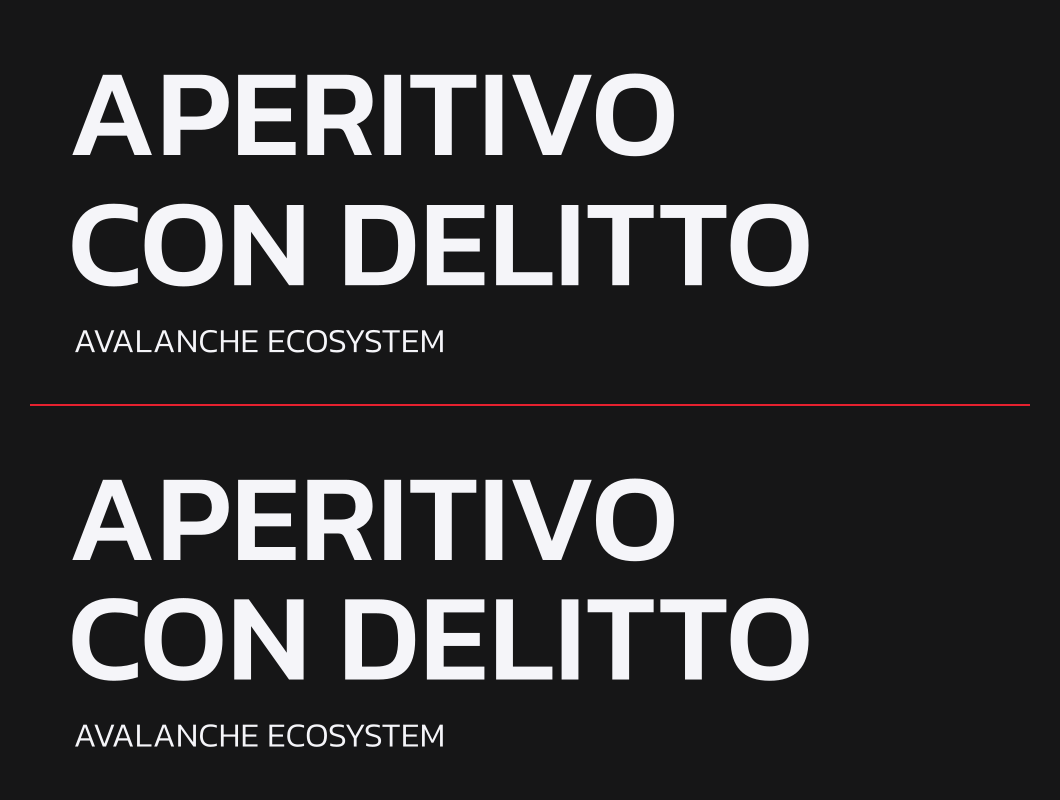
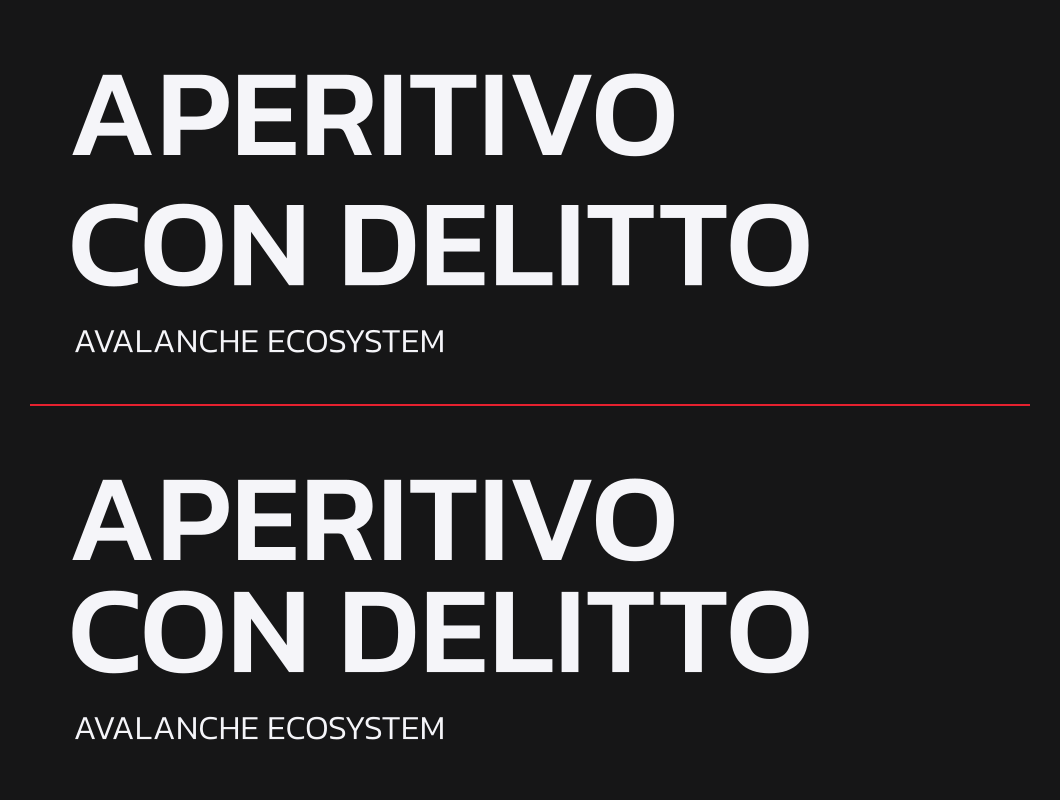
Refine event headline leading to 0.90

Changed region(s): [[0.0623, 0.7188, 0.5604, 0.9375], [0.5292, 0.7188, 0.7783, 0.7812], [0.6849, 0.8125, 0.7783, 0.875]]

diff --git a/team1-design-system/references/social-and-content.md b/team1-design-system/references/social-and-content.md
@@ -15,9 +15,9 @@ Common planning sizes include 1080 × 1350 portrait, 1080 × 1080 square, and 10
 
 ## Event headline leading — derived recommendation
 
-For short, stacked Kanit Medium headlines on event covers and social graphics, start at **0.96 line height**, using `profiles.eventDisplay.headlineLineHeight` in the canonical tokens. In SVG or other manually positioned layouts, set consecutive baselines to `font size × 0.96` apart; this is not the visible gap between letter shapes.
+For short, stacked Kanit Medium headlines on event covers and social graphics, start at **0.90 line height**, using `profiles.eventDisplay.headlineLineHeight` in the canonical tokens. In SVG or other manually positioned layouts, set consecutive baselines to `font size × 0.90` apart; this is not the visible gap between letter shapes.
 
-This recommendation follows requester feedback on 21 September 2026 to slightly tighten an event cover's headline. The revised square cover uses 126.72 px baseline spacing at 132 px type (previously 138 px); its story companion uses 98.88 px at 103 px type (previously 108 px).
+This recommendation follows requester feedback on 21 September 2026 to slightly tighten an event cover's headline. The revised square cover uses 118.8 px baseline spacing at 132 px type (previously 138 px); its story companion uses 92.7 px at 103 px type (previously 108 px).
 
 Keep supporting copy visually separate. Move its position with the shortened title block when needed, preserving the existing title-to-subtitle gap. Inspect accents, ascenders, descenders and thumbnail readability; increase leading if glyphs collide. This is scoped display guidance, not a change to body-copy spacing, global font roles, or inherited presentation layouts.
 

diff --git a/team1-design-system/tokens/README.md b/team1-design-system/tokens/README.md
@@ -10,6 +10,6 @@ Use `global` for new work. Values under `profiles` are controlled exceptions and
 
 The `retired` map exists for migration and linting. Never treat its values as a usable palette. Status error is `#dc2626`; do not use brand red `#E6212F` as an error color.
 
-`profiles.eventDisplay.headlineLineHeight` is a derived 0.96 starting point for short stacked Kanit Medium event headlines. Multiply font size by this value for manual baseline placement. It is deliberately excluded from the global CSS foundations; it does not govern body copy or inherited presentation layouts. See the [social guidance](../references/social-and-content.md#event-headline-leading--derived-recommendation) for scope and optical checks.
+`profiles.eventDisplay.headlineLineHeight` is a derived 0.90 starting point for short stacked Kanit Medium event headlines. Multiply font size by this value for manual baseline placement. It is deliberately excluded from the global CSS foundations; it does not govern body copy or inherited presentation layouts. See the [social guidance](../references/social-and-content.md#event-headline-leading--derived-recommendation) for scope and optical checks.
 
 No font files are included. Verify font licenses, installed weights, target-language glyph coverage, fallback behavior, contrast, zoom, and reduced-motion behavior in the final medium.

diff --git a/docs/qa/README.md b/docs/qa/README.md
@@ -2,7 +2,7 @@
 
 `event-headline-leading-before-after.png` compares the actual square-cover title treatment at the same scale: before above the red divider, revised below it. It contains only rendered Kanit text and a comparison divider; no font programs, event photograph or third-party logo is embedded.
 
-Requester feedback on 21 September 2026 asked for a slight reduction in line height. At 132 px type, the baseline interval changes from 138 px (about 1.05) to 126.72 px (0.96). The story uses the same derived token: 103 px type × 0.96 = 98.88 px, down from 108 px. The subtitle follows the second line, retaining its existing offset.
+Requester feedback on 21 September 2026 asked for a slight reduction in line height. At 132 px type, the baseline interval changes from 138 px (about 1.05) to 118.8 px (0.90). The story uses the same derived token: 103 px type × 0.90 = 92.7 px, down from 108 px. The subtitle follows the second line, retaining its existing offset.
 
 Both final PNG exports (1600 × 1600 and 1080 × 1920) were visually inspected after rendering from the actual Kanit Medium/Light outlines. Text is unclipped, lines do not collide, and the original art, logo and public copy are unchanged. The full event artwork remains in the event workspace; this repository carries only the typography proof.
 

diff --git a/team1-design-system/CHANGELOG.md b/team1-design-system/CHANGELOG.md
@@ -2,7 +2,7 @@
 
 ## Unreleased
 
-- Added derived 0.96 headline leading for event covers and social graphics, with a scoped token, manual-baseline examples and optical checks. Body copy, global font roles and inherited templates are unchanged.
+- Added derived 0.90 headline leading for event covers and social graphics, with a scoped token, manual-baseline examples and optical checks. Body copy, global font roles and inherited templates are unchanged.
 
 ## 2.1.0 — 2026-09-08
 
